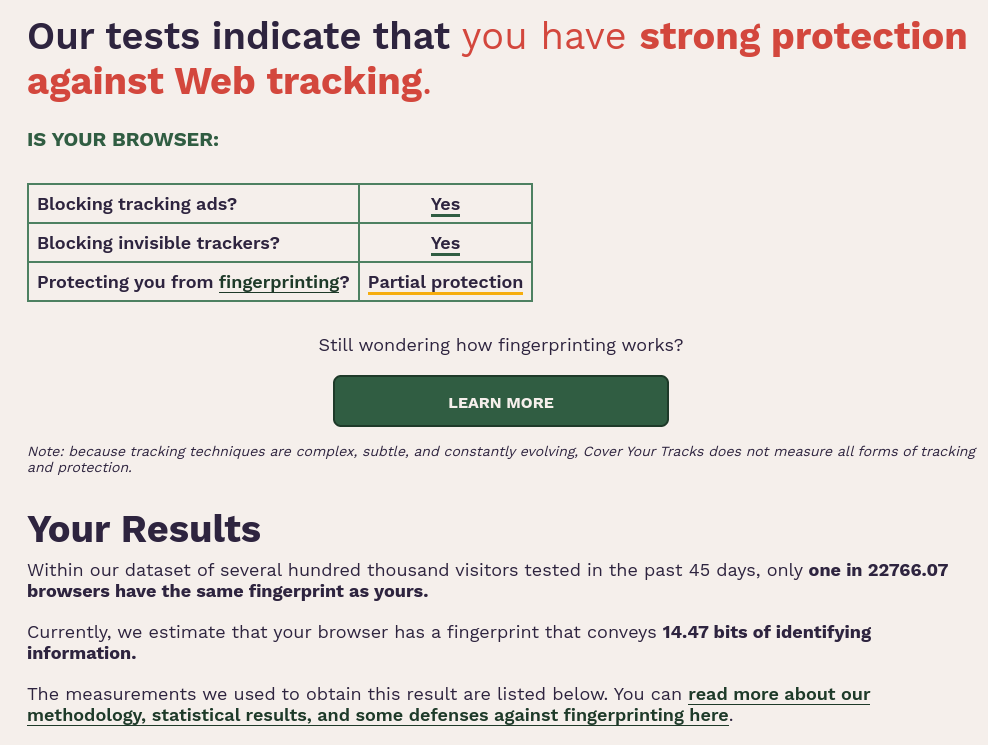
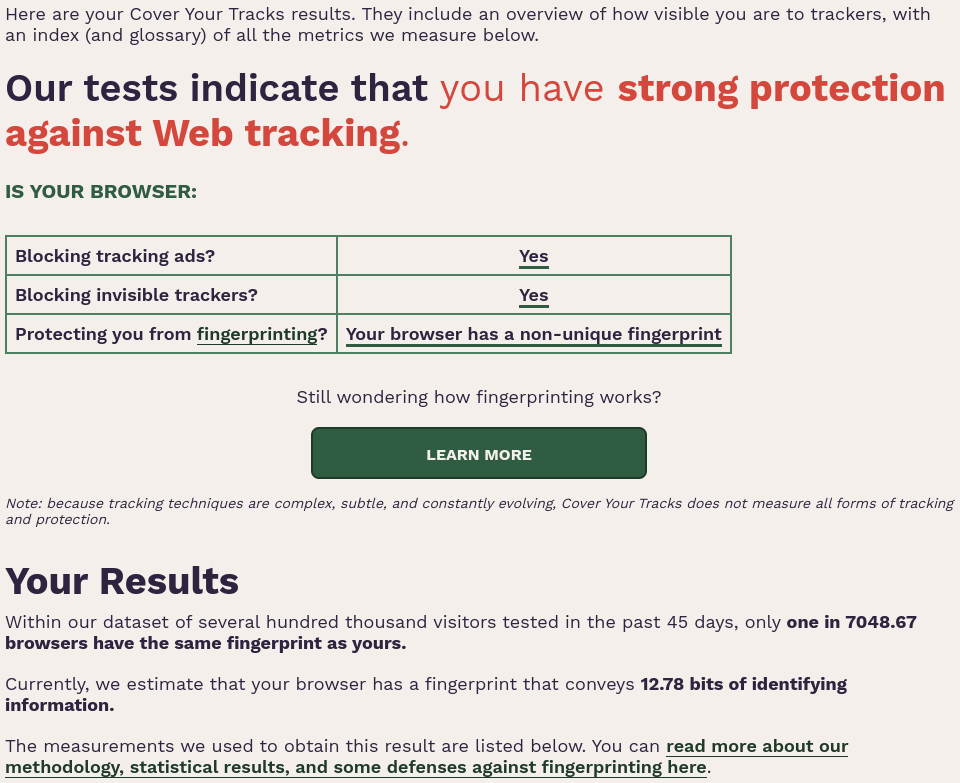
Updating README.md and EFF image

Changed region(s): [[0.0, 0.0, 1.0, 1.0]]

diff --git a/README.md b/README.md
@@ -1,9 +1,12 @@
+## ⛔ Important Note!
+This project that's available on [GitHub](https://github.com/A7md70242602GH/AdvancedFox) is for improving the visibility, the main repository for downloading and using the policies.json and user.js files are available on [GitLab](https://gitlab.com/iahmed_7024-group/advancedfox).
+
 # AdvancedFox
 
-![Icon](images/Icon.png){width=128 height=128}
+![Icon](images/Icon.png)
 
 ## Overview
-**AdvancedFox** is a project that's free and open source and it provides some policies.json and user.js files for blocking ads, trackers, resisting fingerprinting, disabling Mozilla telemetry, disabling AI features and improving the browser's performance.
+**AdvancedFox** is a project that's free and open source and it provides some policies.json and user.js files for blocking ads, trackers, resisting fingerprint and cookies, disabling Mozilla telemetry, disabling AI features and improving browser's performance.
 
 ## ⚔ All policies and user.js types
 Files/Levels | 📄 policies (Privacy & Security) | 📜 user.js (Privacy & Security)
@@ -16,6 +19,7 @@ Files/Levels | 📄 policies (Privacy & Security) | 📜 user.js (Privacy & Secu
 1. **Disable AI Features.**
 2. **Disable Mozilla Telemetry.**
 3. **Performance.**
+4. **Resisting Cookies**
 
 ## ✨ Features
 - [x] **_Blocking ads by default._**
@@ -30,31 +34,29 @@ Files/Levels | 📄 policies (Privacy & Security) | 📜 user.js (Privacy & Secu
 - [x] **_Installing uBlock Origin by default._**
 - [x] **_Disabling Mozilla telemetry._**
 - [x] **_Disabling AI Features._**
+- [x] **_Resisting Cookies._**
 
-**After installing the policies.json (Privacy & Security) and user.js (Privacy & Security) files with strong level, this is the result in one of the best websites for testing web tracking:**
+**After installing the policies.json (Privacy & Security) and user.js (Privacy & Security) files with strong level, this is the result in one of the best websites for testing web tracking (click [here](https://gitlab.com/iahmed_7024-group/advancedfox/-/blob/main/Privacy%20&%20Security/Firefox%20ESR%20153/EFF-CYT_data.txt) to see detailed EFF data):**
 
-![EFF-Cover your tracks](images/EFF-CYT.png){width=988 height=745}
+![EFF Cover Your Tracks](images/EFF-CYT.png)
 
-Note: You may not get this result, it's different between each device.
+Note: You may not get this result, it's different between each device and each system.
 
-## 🚫 Fingerprinting Problems In Firefox ESR 140
+## 🚫 Fingerprinting Problems In Firefox ESR 153
 
-**There are 4 things that prevent your browser fingerprint from being non-unique**:
+**There are 3 things that may prevent your browser fingerprint from being non-unique**:
 
 | Objects | Reasons |
 |---------|---------|
-| **Cores** | _RFP sets cores count to 2 (when enabled) according to a statistic in 2017 by Mozila, but this statistic is old, and this value is nearly-unique now, the value should be 4._ |
-| **Do Not Track header** | _Enhanced Tracking Protection enables "Do Not Track" sign ("Do Not Track" is a sign that send "Do Not Track" sign to any website you enter) automaticlly and can't be disabled with keeping Enhanced Tracking Protection enabled, and the problem with "Do Not Track" sign is making the browser more uniquer._ |
 | **Fonts** (Linux only) | _A structural restriction in Linux support for_ `font-visibility`_._ |
-| **Touch Support** (Windows only) | A bug exists in Firefox ESR 140 on Windows, but it has been fixed in Firefox ESR 153. However, this doesn't mean that ESR 153 is better; in fact, it is worse because it has fewer users than ESR 140, and the result will likely be “nearly-unique” rather than “Partial Protection”. |
+| **Touch Support** | _The option_ `privacy.resistFingerprinting` _sets Max touchpoints value to 5 on every device, and this value is uniquer than 0._ |
+| **User Agent** | _Firefox ESR 153 users is low for now, because most of Firefox ESR users is on Firefox ESR 140, and because the best browser in resesting fingerprint is on Firefox ESR 140, the browser that I'm talking about is_ **Tor Web Browser** _._ |
 
-**Note:** Cores, Do Not Track header and Touch Support (Windows only) issues has been fixed in Firefox ESR 153 but it's not the best because it has fewer users than Firefox ESR 140.
+**These things can't be resolved by a policies.json or user.js files, the resolve key is in Mozilla's hand (except user agent problem).**
 
-**These things can't be resolved by a policies.json or user.js files, the resolve key is in Mozilla's hand.**
+**Note:** You can fix two of the three problems with some modifications on your system, and some extentions on your browser, maybe there is upcoming guide to do these solutions.
 
-If these issues resolved, Firefox with this user.js will show you "**Your browser has a non-unique fingerprint.**" in Cover Your Tracks test.
-
-Here is a [discussion](https://connect.mozilla.org/t5/discussions/resistfingerprinting-inadvertently-increases-uniqueness-dnt-auto/m-p/138870#M56435) that I made and talks about 2 of the 4 problems (Cores and DNT problems).
+If these issues resolved, Firefox with the policies.json and user.js files will show you this result on Cover Your Tracks test: "**Your browser has a non-unique fingerprint.**".
 
 ## 📥 Installation
 
@@ -62,54 +64,62 @@ Here is a [discussion](https://connect.mozilla.org/t5/discussions/resistfingerpr
 1. Go to "[AFDC](https://gitlab.com/iahmed_7024-group/advancedfox/-/wikis/AFDC)".
 2. In "Privacy & Security" section, choose the privacy level that you want to use.
 3. Click on "policies.json" with the level that you chose.
-4. After downloading, copy the file.
+4. Once it's downloaded, rename it to `policies.json` and then copy it.
 5. Putting the file in the right position:
 
 ###### Linux:
-**Official Build**: Go to the installation directory (it may be in /opt/firefox/), then go to "distribution" folder (create it if not available) and paste the file there.
+**Official Build**: Go to the installation directory (it may be in `/opt/firefox/`), then go to `distribution` folder (create it if not available) and paste the file there.
 
-**Package Manager**: Go to "/usr/lib/firefox/", then go to "distribution" folder (create it if not available) and paste the file there.
+**Package Manager**: Go to `/usr/lib/firefox/`, then go to `distribution` folder (create it if not available) and paste the file there.
 
 **Commands** (you have to run it with privilege permissions):
 1. `mkdir /opt/firefox-esr/distribution/ && mv <policies.json file location> /opt/firefox-esr/distribution/`.
 2. `mkdir /usr/lib/firefox/distribution/ && mv <policies.json file location> /usr/lib/firefox/distribution/`.
 
 ###### Windows:
-Go to "C:\Program Files\Mozilla Firefox\", then go to "distribution" folder (create it if not available) and paste the file there.
+Go to `C:\Program Files\Mozilla Firefox\`, then go to `distribution` folder (create it if not available) and paste the file there.
+
+6. Restart Firefox to apply changes.
 
 #### 📜 user.js
 1. Go to "[AFDC](https://gitlab.com/iahmed_7024-group/advancedfox/-/wikis/AFDC)".
 2. In "Privacy & Security" section, choose your operating system.
 3. Choose the privacy level that you want to use.
 4. Click on the user.js file with the level that you chose.
-5. Once it's downloaded, rename it to user.js.
+5. Once it's downloaded, rename it to `user.js` and then copy it.
 6. Open Firefox.
-7. Type in the search bar: about:profiles.
-8. Choose the profile that you want to add the user.js into it and then click on Open Directory in Root Directory section.
-9. Backup your "prefs.js" file by copying and pasting it in the same location with "prefs.js.bkup" name.
+7. Type in the search bar: `about:profiles`.
+8. Choose the profile that you want to add the user.js into it and then click on `Open Directory` in `Root Directory` section.
+9. Backup your `prefs.js` file by copying and pasting it in the same location with `prefs.js.bkup` name.
 10. Paste the user.js.
+11. Restart Firefox to apply changes.
 
 ## 🛑 Deletion
 
 #### 📄 policies.json
-###### Linux:
-**Official Build**: Go to the installation directory (it may be in /opt/firefox/), then go to "distribution" folder and then remove the file.
+1. Remove the file:
 
-**Package Manager**: Go to "/usr/lib/firefox/", then go to "distribution" folder and then remove the file.
+###### Linux:
+**Official Build**: Go to the installation directory (it may be in `/opt/firefox/`), then go to `distribution` folder and then remove the file.
+
+**Package Manager**: Go to `/usr/lib/firefox/`, then go to `distribution` folder and then remove the file.
 
 **Commands** (you have to run it with privilege permissions):
 1. `rm /opt/firefox-esr/distribution/policies.json `.
 2. `rm /usr/lib/firefox/distribution/policies.json `.
 
 ###### Windows:
-Go to "C:\Program Files\Mozilla Firefox\", then go to "distribution" folder and then remove the file.
+Go to `C:\Program Files\Mozilla Firefox\`, then go to `distribution` folder and then remove the file.
+
+2. Restart Firefox to apply changes.
 
 #### 📜 user.js
 1. Open Firefox.
-2. Type in the search bar: about:profiles.
-3. Choose the profile that you added the user.js into it and then click on Open Directory in Root Directory section.
-4. Remove the "user.js" and "prefs.js" files.
-5. Rename the "prefs.js.bkup" to "prefs.js".
+2. Type in the search bar: `about:profiles`.
+3. Choose the profile that you added the user.js into it and then click on `Open Directory` in `Root Directory` section.
+4. Remove the `user.js` and `prefs.js` files.
+5. Rename the `prefs.js.bkup` to `prefs.js`.
+6. Restart Firefox to apply changes.
 
 ## 🪪 License
 This project is licensed under [MIT License](https://mit-license.org/).
@@ -118,5 +128,4 @@ This project is licensed under [MIT License](https://mit-license.org/).
 - **A7** ([GitLab](https://gitlab.com/iAhmed_7024) - [GitHub](https://github.com/A7md70242602GH))
 - **SHIMORA** ([GitLab](https://gitlab.com/SHIMORA_6600X) - [GitHub](https://github.com/SHIMORA-6600X))
 
-## ⛔ Important Note!
-This project that's available on [GitHub](https://github.com/A7md70242602GH/AdvancedFox) is for improving the visibility, the main repository for downloading and using the policies.json and user.js files are available on [GitLab](https://gitlab.com/iahmed_7024-group/advancedfox).
+Project Version: **1.0.4_4**.
